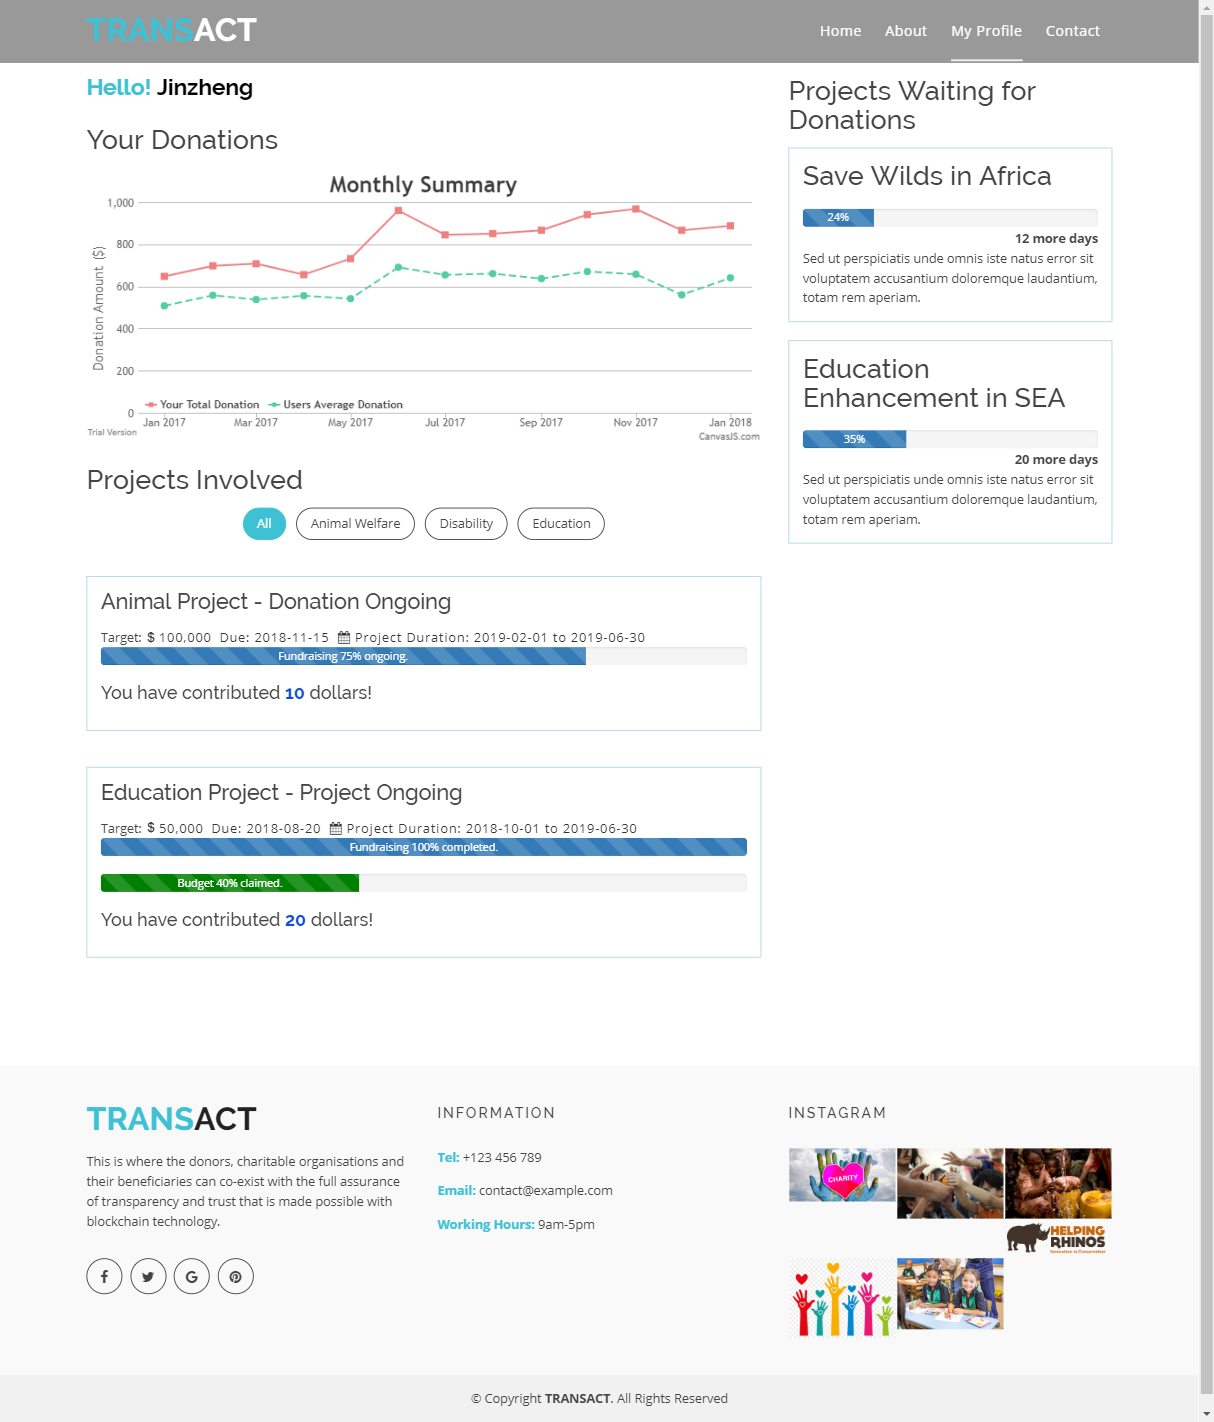
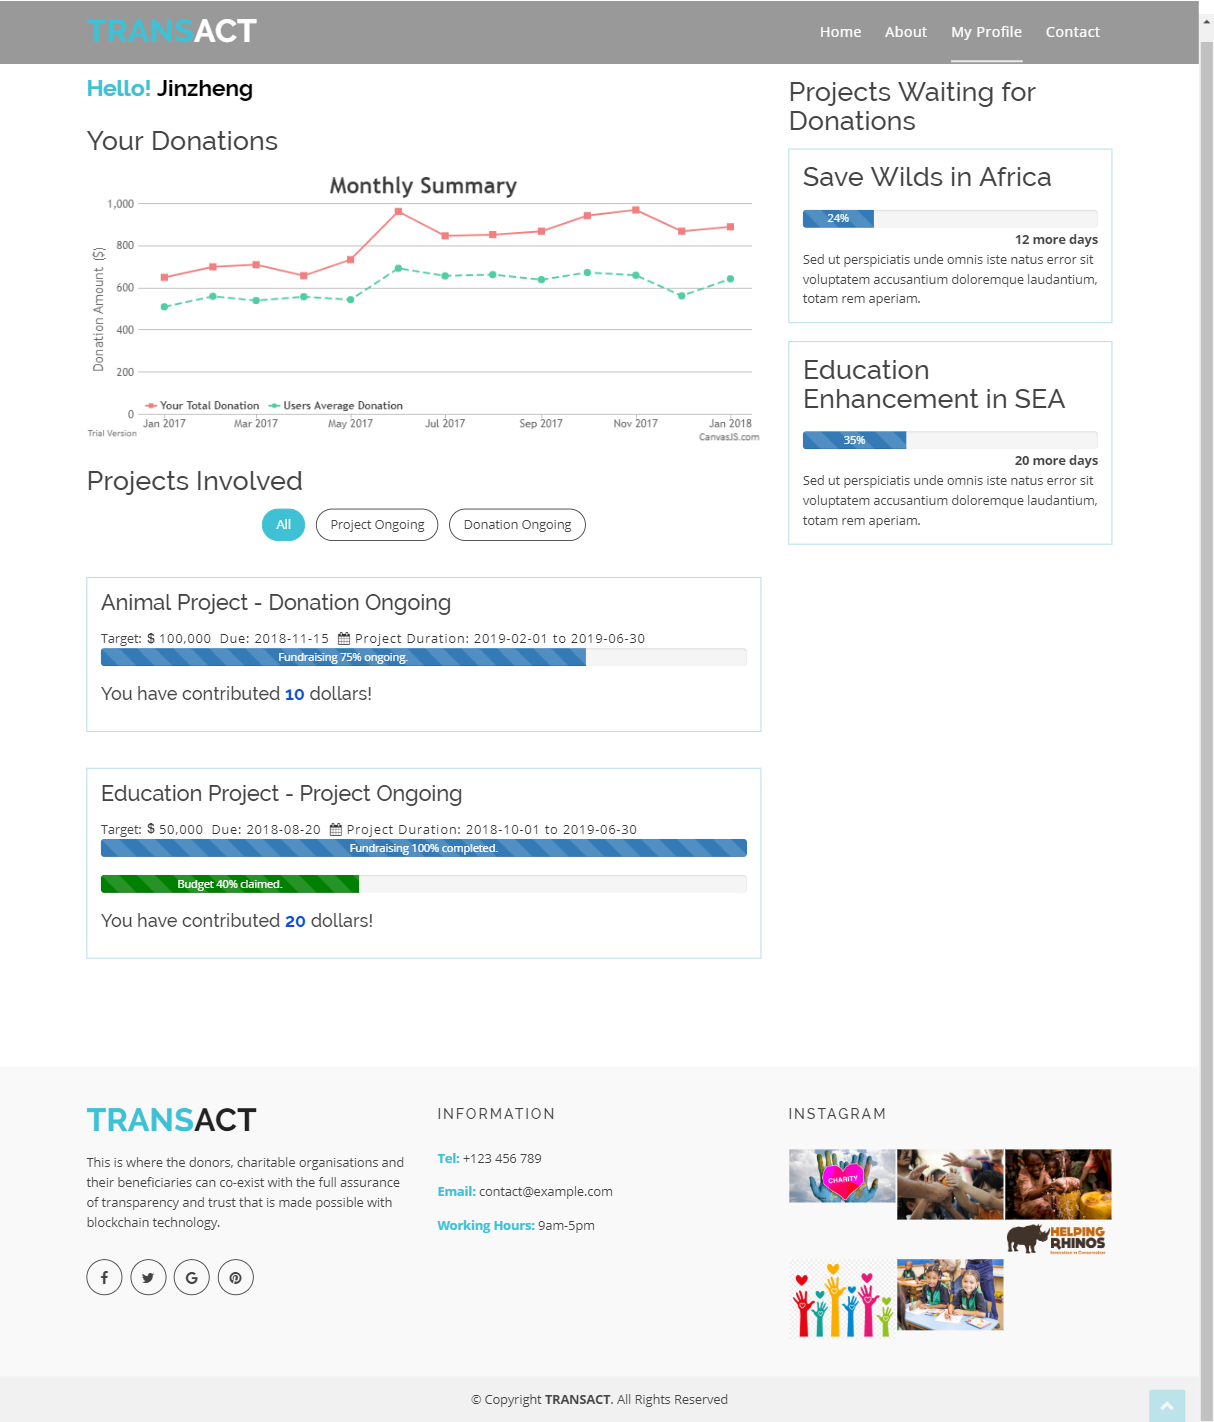
a few updates

diff --git a/donation-web/my-profile.html b/donation-web/my-profile.html
@@ -216,25 +216,40 @@
                             <div class="awesome-project-1 fix">
                                 <div class="col-lg-12 col-md-12 col-sm-12 col-xs-12">
                                     <div class="awesome-menu ">
-                                    <ul class="project-menu">
-                                        <li>
-                                        <a href="#" class="active" data-filter="*">All</a>
-                                        </li>
-                                        <li>
-                                        <a href="#" data-filter=".animal">Animal Welfare</a>
-                                        </li>
-                                        <li>
-                                        <a href="#" data-filter=".disability">Disability</a>
-                                        </li>
-                                        <li>
-                                        <a href="#" data-filter=".education">Education</a>
-                                        </li>
-                                    </ul>
+                                        <ul class="project-menu">
+                                            <li>
+                                            <a href="#" class="active" data-filter="*" >All</a>
+                                            </li>
+                                            <li>
+                                            <a href="#" data-filter=".project" >Project Ongoing
+                                            </a>
+                                            </li>
+                                            <li>
+                                            <a href="#" data-filter=".donation" >Donation Ongoing</a>
+                                            </li>
+                                        </ul>
                                     </div>
+                                    <!-- <div class="awesome-menu ">
+                                        <ul class="project-menu">
+                                            <li>
+                                            <a href="#" class="active" data-filter="*">All</a>
+                                            </li>
+                                            <li>
+                                            <a href="#" data-filter=".animal">Animal Welfare</a>
+                                            </li>
+                                            <li>
+                                            <a href="#" data-filter=".disability">Disability</a>
+                                            </li>
+                                            <li>
+                                            <a href="#" data-filter=".education">Education</a>
+                                            </li>
+                                        </ul>
+                                    </div> -->
+
                                 </div>
                             </div>
                             <div class="awesome-project-content">
-                                    <div class="single-blog animal" style=" border-style: solid; 
+                                    <div class="single-blog animal donation" style=" border-style: solid; 
                                     border-width: thin; border-color: lightblue; padding: 15px; width: -webkit-fill-available;">
                                         <div class="blog-text">
                                             <h4>
@@ -263,7 +278,7 @@
                                             </p> -->
                                         </div>
                                     </div>
-                                    <div class="single-blog education" style=" border-style: solid; 
+                                    <div class="single-blog education project" style=" border-style: solid; 
                                     border-width: thin; border-color: lightblue; padding: 15px; width: -webkit-fill-available;">
                                         <div class="blog-text">
                                             <h4>
